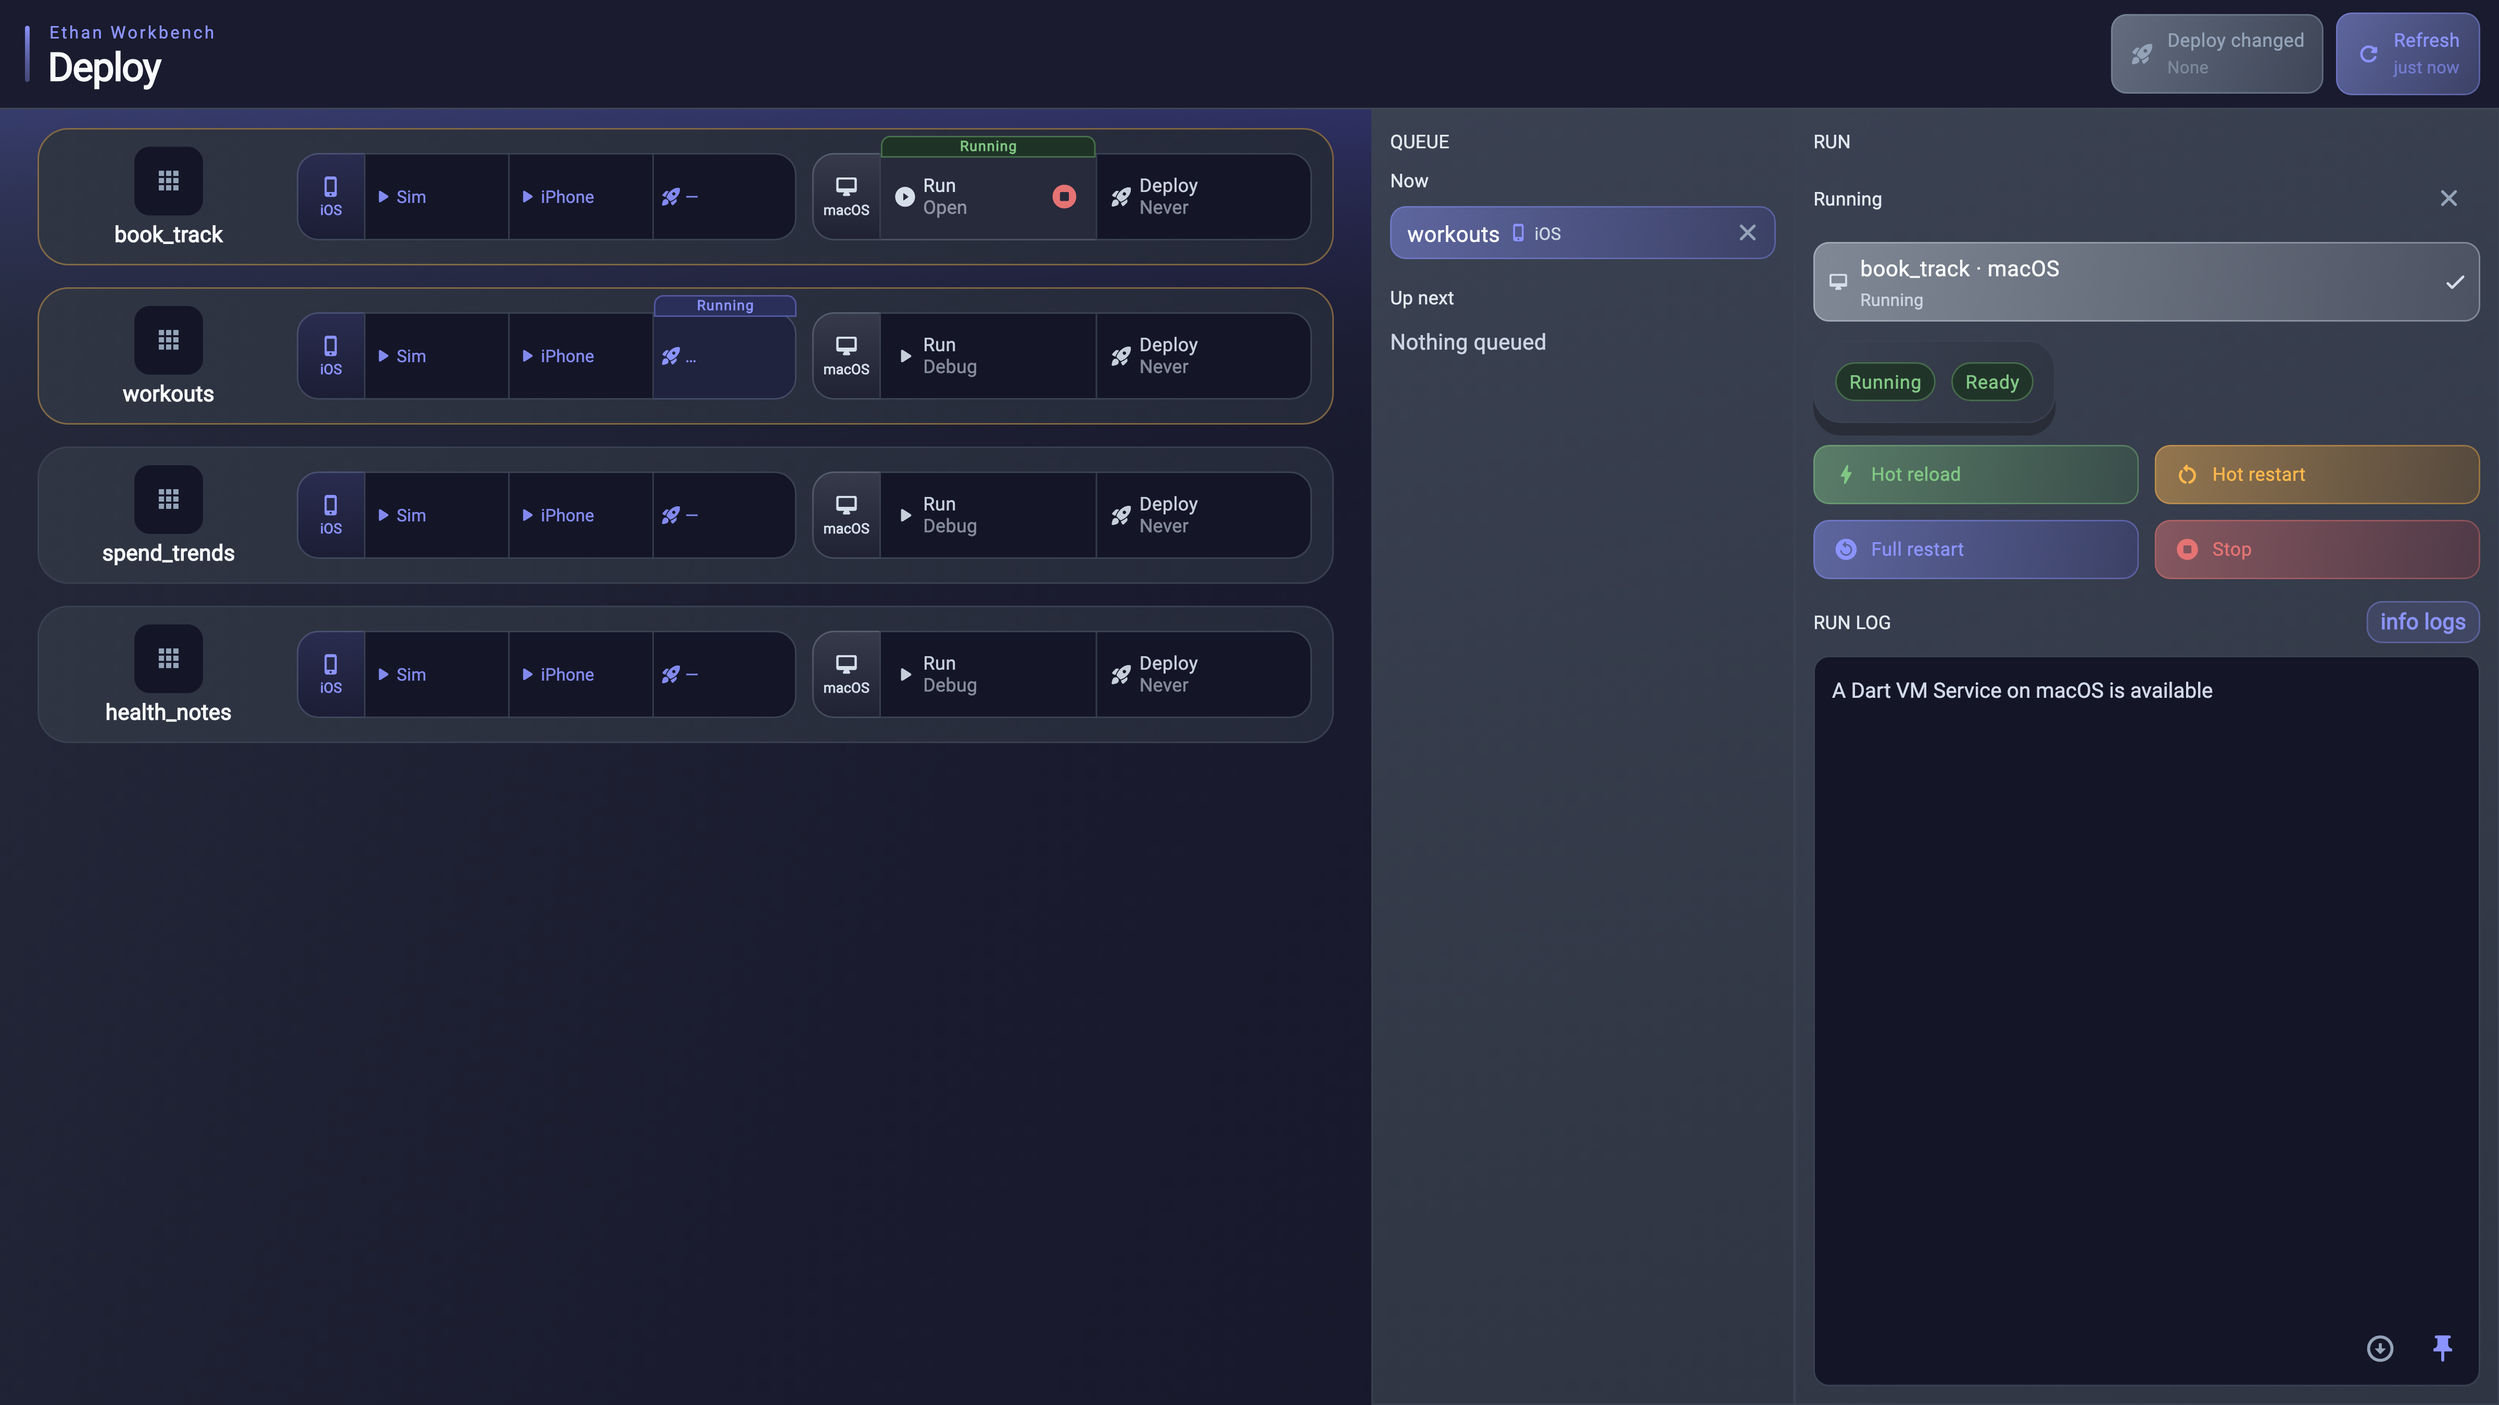
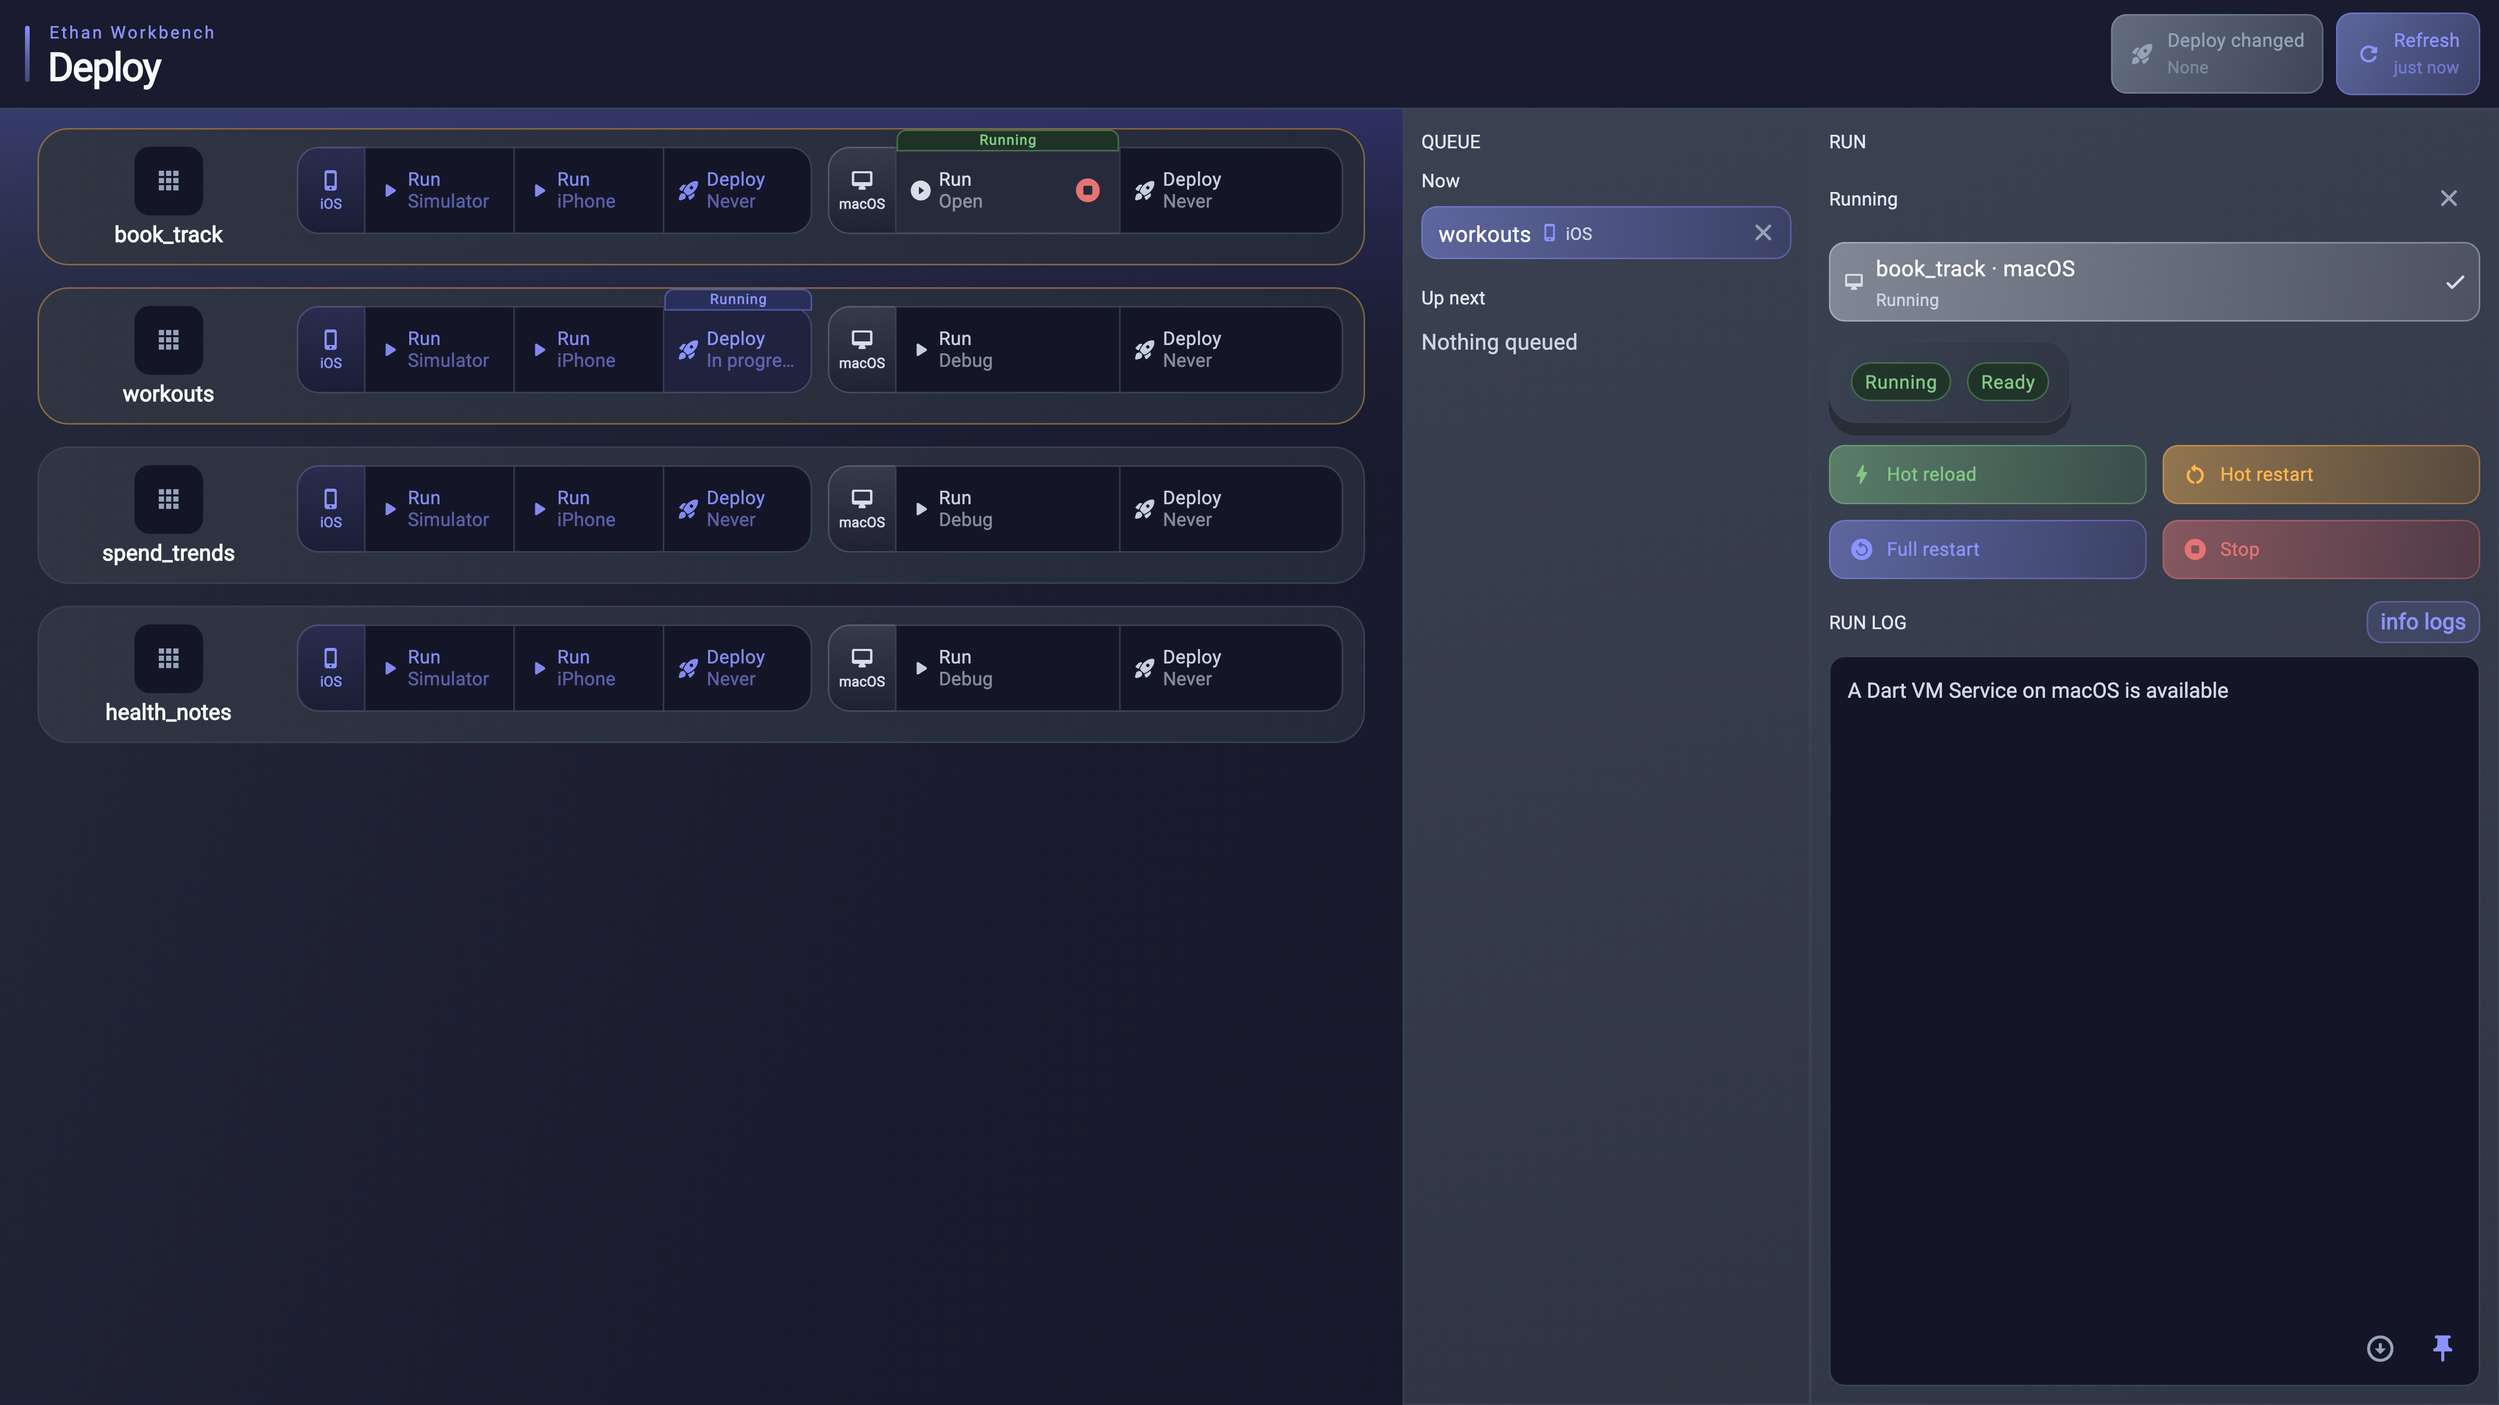
Stack a cluster's own cells instead of stacking platforms
Platforms stay side by side in a deploy row. A cluster too narrow for
its cells to keep their titles side by side now stacks Run and Deploy in
a column beside its rail, each at the cluster's full width. Clusters
widen to 330 so a three-cell iOS cluster keeps every title at full
width, and the row top-aligns clusters of different heights. Replaces
the earlier platforms-in-a-column layout.

diff --git a/lib/ui/widgets/e_action_cluster.dart b/lib/ui/widgets/e_action_cluster.dart
@@ -44,86 +44,132 @@ class const EActionCluster({
   final IconData? icon,
   final String? label,
 }) extends StatelessWidget {
-  /// Narrowest cluster of [cellCount] cells that still shows every cell's
-  /// title and subtitle and the rail's label; narrower, cells go icon-only.
-  static double labeledWidthFor(int cellCount) =>
-      _DenseFusedWellSizing.railLabeled +
-      cellCount * (_DenseFusedWellSizing.condensedMaxWidth + 1);
-
-  /// Room above a cluster for its hanging status ribbon.
-  static const statusRibbonClearance =
-      _DenseFusedWellSizing.statusEdgeHeight -
-      _DenseFusedWellSizing.statusEdgeOverlap;
-
+  /// Too narrow for every cell to keep its title side by side, the cells
+  /// stack in a column beside the rail, each at the cluster's full width.
   @override
   Widget build(BuildContext context) {
     if (cells.isEmpty) return const SizedBox.shrink();
-
-    final height =
-        _DenseFusedWellSizing.cellHeight + _DenseFusedWellSizing.cellPadV * 2;
-    const radius = ELayout.borderRadiusMd;
-
-    return SizedBox(
-      height: height,
-      child: LayoutBuilder(
-        builder: (context, constraints) {
-          final showRail = icon != null || (label != null && label!.isNotEmpty);
-          final showRailLabel =
-              showRail &&
-              label != null &&
-              label!.isNotEmpty &&
-              constraints.maxWidth >=
-                  _DenseFusedWellSizing.labeledRailMinClusterWidth;
-          final railWidth = !showRail
-              ? 0.0
-              : showRailLabel
-              ? _DenseFusedWellSizing.railLabeled
-              : _DenseFusedWellSizing.railIconOnly;
-
-          return Stack(
+    return LayoutBuilder(
+      builder: (context, constraints) {
+        final bool stacksCells =
+            cells.length > 1 && constraints.maxWidth < _labeledSideBySideWidth;
+        final double railWidth = _railWidthFor(constraints.maxWidth);
+        return SizedBox(
+          height: stacksCells
+              ? _cellRowHeight * cells.length + (cells.length - 1)
+              : _cellRowHeight,
+          child: Stack(
             clipBehavior: Clip.none,
             children: [
-              ESurface(
-                kind: ESurfaceKind.inset,
-                borderRadius: radius,
-                child: ClipRRect(
-                  borderRadius: radius,
-                  child: Row(
-                    crossAxisAlignment: CrossAxisAlignment.stretch,
-                    children: [
-                      if (showRail)
-                        _AccentRail(
-                          accent: accent,
-                          icon: icon,
-                          label: showRailLabel ? label : null,
-                          width: railWidth,
-                        ),
-                      for (var index = 0; index < cells.length; index++) ...[
-                        if (index > 0)
-                          VerticalDivider(
-                            width: 1,
-                            thickness: 1,
-                            color: EColors.border.withValues(alpha: 0.85),
-                          ),
-                        Expanded(
-                          child: _Cell(accent: accent, cell: cells[index]),
-                        ),
-                      ],
-                    ],
-                  ),
-                ),
+              _well(
+                railWidth: railWidth,
+                showRailLabel: railWidth == _DenseFusedWellSizing.railLabeled,
+                cellsArea: stacksCells
+                    ? _cellsStackedInColumn()
+                    : _cellsSideBySide(),
               ),
               ..._hangingEdges(
                 clusterWidth: constraints.maxWidth,
                 railWidth: railWidth,
               ),
             ],
-          );
-        },
+          ),
+        );
+      },
+    );
+  }
+
+  static const _cellRowHeight =
+      _DenseFusedWellSizing.cellHeight + _DenseFusedWellSizing.cellPadV * 2;
+
+  /// Narrowest width at which every cell keeps its title side by side.
+  double get _labeledSideBySideWidth =>
+      _DenseFusedWellSizing.railLabeled +
+      cells.length * (_DenseFusedWellSizing.condensedMaxWidth + 1);
+
+  bool get _hasRail => icon != null || (label != null && label!.isNotEmpty);
+
+  double _railWidthFor(double clusterWidth) {
+    if (!_hasRail) return 0;
+    final bool fitsLabel =
+        label != null &&
+        label!.isNotEmpty &&
+        clusterWidth >= _DenseFusedWellSizing.labeledRailMinClusterWidth;
+    return fitsLabel
+        ? _DenseFusedWellSizing.railLabeled
+        : _DenseFusedWellSizing.railIconOnly;
+  }
+
+  /// The inset surface: rail, then [cellsArea].
+  Widget _well({
+    required double railWidth,
+    required bool showRailLabel,
+    required Widget cellsArea,
+  }) {
+    const radius = ELayout.borderRadiusMd;
+    return ESurface(
+      kind: ESurfaceKind.inset,
+      borderRadius: radius,
+      child: ClipRRect(
+        borderRadius: radius,
+        child: Row(
+          crossAxisAlignment: CrossAxisAlignment.stretch,
+          children: [
+            if (_hasRail)
+              _AccentRail(
+                accent: accent,
+                icon: icon,
+                label: showRailLabel ? label : null,
+                width: railWidth,
+              ),
+            Expanded(child: cellsArea),
+          ],
+        ),
       ),
     );
   }
 
+  Widget _cellsSideBySide() {
+    return Row(
+      crossAxisAlignment: CrossAxisAlignment.stretch,
+      children: [
+        for (var index = 0; index < cells.length; index++) ...[
+          if (index > 0)
+            VerticalDivider(
+              width: 1,
+              thickness: 1,
+              color: EColors.border.withValues(alpha: 0.85),
+            ),
+          Expanded(
+            child: _Cell(accent: accent, cell: cells[index]),
+          ),
+        ],
+      ],
+    );
+  }
+
+  Widget _cellsStackedInColumn() {
+    return Column(
+      crossAxisAlignment: CrossAxisAlignment.stretch,
+      children: [
+        for (var index = 0; index < cells.length; index++) ...[
+          if (index > 0)
+            Divider(
+              height: 1,
+              thickness: 1,
+              color: EColors.border.withValues(alpha: 0.85),
+            ),
+          SizedBox(
+            height: _cellRowHeight,
+            child: _Cell(accent: accent, cell: cells[index]),
+          ),
+        ],
+      ],
+    );
+  }
+
+  /// Status ribbons hang off the top edge in cell order either way, so a
+  /// stacked well is no taller for them.
   List<Widget> _hangingEdges({
     required double clusterWidth,
     required double railWidth,

diff --git a/lib/projects/project_workbench_row.dart b/lib/projects/project_workbench_row.dart
@@ -1,7 +1,6 @@
 import 'dart:math' as math;
 
 import 'package:ethan_ui/ethan_ui.dart';
-import 'package:ethan_utils/ethan_utils.dart';
 import 'package:flutter/material.dart';
 
 import '../deploy/deploy_job.dart';
@@ -12,7 +11,6 @@ import '../commit/uncommitted_change_counts.dart';
 import 'workbench_project.dart';
 import 'workbench_row_identity.dart';
 import 'workbench_row_layout.dart';
-import '../ui/widgets/e_action_cluster.dart';
 import 'workbench_row_platform_cluster.dart';
 
 /// One project in the workbench list: identity + Line age + commit + Run/Deploy.
@@ -88,55 +86,28 @@ class const ProjectWorkbenchRow({
     );
   }
 
-  /// Platform clusters sit side by side while each keeps its labels; once
-  /// they would go icon-only, they stack in one column and each takes the
-  /// column's full width.
   Widget _actionRow(double maxWidth, {required bool compact}) {
     final clusterGap = compact
         ? WorkbenchRowLayout.compactClusterGap
         : WorkbenchRowLayout.clusterGap;
-    WorkbenchRowSlotWidths widthsFor(int clusterSlots) =>
-        WorkbenchRowSlotWidths.allocate(
-          maxWidth: maxWidth,
-          platformCount: clusterSlots,
-          compact: compact,
-          showLineAge: showLineAge,
-          showCommit: showCommit,
-        );
-    final WorkbenchRowSlotWidths sideBySide = widthsFor(platforms.length);
-    final bool stacksClusters =
-        platforms.length > 1 && sideBySide.cluster < _labeledClusterWidth;
-    final WorkbenchRowSlotWidths widths = stacksClusters
-        ? widthsFor(1)
-        : sideBySide;
+    final widths = WorkbenchRowSlotWidths.allocate(
+      maxWidth: maxWidth,
+      platformCount: platforms.length,
+      compact: compact,
+      showLineAge: showLineAge,
+      showCommit: showCommit,
+    );
+    // Top-aligned: a cluster that stacks its cells is taller than one that
+    // does not, and their tops should line up.
     return Row(
-      crossAxisAlignment: CrossAxisAlignment.center,
-      children: _actionRowChildren(
-        widths,
-        clusterGap: clusterGap,
-        stacksClusters: stacksClusters,
-      ),
+      crossAxisAlignment: CrossAxisAlignment.start,
+      children: _actionRowChildren(widths, clusterGap: clusterGap),
     );
   }
-
-  /// Width the widest platform cluster needs to keep its labels, at most a
-  /// full cluster's width (a cluster never grows past that).
-  double get _labeledClusterWidth => platforms
-      .map(
-        (platform) => EActionCluster.labeledWidthFor(
-          (canRunLocally
-                  ? WorkbenchRowPlatformCluster.runDevicesFor(platform).length
-                  : 0) +
-              1,
-        ),
-      )
-      .fold(0.0, math.max)
-      .clamp(0.0, WorkbenchRowLayout.clusterWidth);
 
   List<Widget> _actionRowChildren(
     WorkbenchRowSlotWidths widths, {
     required double clusterGap,
-    required bool stacksClusters,
   }) {
     final children = <Widget>[];
     var slotIndex = 0;
@@ -167,36 +138,24 @@ class const ProjectWorkbenchRow({
         onCommit: onCommit,
       ),
     );
-    if (stacksClusters) {
+    for (final platform in platforms) {
       addSlot(
         widths.cluster,
-        Column(
-          crossAxisAlignment: CrossAxisAlignment.stretch,
-          spacing: clusterGap + EActionCluster.statusRibbonClearance,
-          children: platforms.mapL(_platformCluster),
+        WorkbenchRowPlatformCluster(
+          project: project,
+          platform: platform,
+          runStateFor: runStateFor,
+          canRunLocally: canRunLocally,
+          ongoingDeploy: ongoingDeploy,
+          waitingDeploys: waitingDeploys,
+          onDeploy: onDeploy,
+          onRun: onRun,
+          onStopRun: onStopRun,
+          onOpenOngoingDeploy: onOpenOngoingDeploy,
         ),
       );
-      return children;
-    }
-    for (final platform in platforms) {
-      addSlot(widths.cluster, _platformCluster(platform));
     }
     return children;
-  }
-
-  Widget _platformCluster(DeployPlatform platform) {
-    return WorkbenchRowPlatformCluster(
-      project: project,
-      platform: platform,
-      runStateFor: runStateFor,
-      canRunLocally: canRunLocally,
-      ongoingDeploy: ongoingDeploy,
-      waitingDeploys: waitingDeploys,
-      onDeploy: onDeploy,
-      onRun: onRun,
-      onStopRun: onStopRun,
-      onOpenOngoingDeploy: onOpenOngoingDeploy,
-    );
   }
 
   LocalRunStatus? _activeRunStatus(FlutterRunDevice device) {

diff --git a/test/project_workbench_row_test.dart b/test/project_workbench_row_test.dart
@@ -56,12 +56,19 @@ void main() {
     expect(origins[1].dx, greaterThan(origins[0].dx));
   });
 
-  testWidgets('platform clusters stack once side by side would go icon-only', (
+  testWidgets('narrow platforms stay side by side and stack their own cells', (
     tester,
   ) async {
     final List<Offset> origins = await clusterOriginsAt(tester, 620);
     expect(origins, hasLength(2));
-    expect(origins[0].dx, origins[1].dx);
-    expect(origins[1].dy, greaterThan(origins[0].dy));
+    expect(origins[0].dy, origins[1].dy);
+    final Finder macosCluster = find.byType(EActionCluster).first;
+    final Offset runOrigin = tester.getTopLeft(
+      find.descendant(of: macosCluster, matching: find.text('Run')),
+    );
+    final Offset deployOrigin = tester.getTopLeft(
+      find.descendant(of: macosCluster, matching: find.text('Deploy')),
+    );
+    expect(deployOrigin.dy, greaterThan(runOrigin.dy));
   });
 }

diff --git a/lib/projects/workbench_row_layout.dart b/lib/projects/workbench_row_layout.dart
@@ -4,7 +4,9 @@ import 'package:ethan_ui/theme/e_layout.dart';
 
 /// Preferred maxima for identity, then Line age + commit, then clusters.
 abstract final class WorkbenchRowLayout() {
-  static const clusterWidth = 320.0;
+  /// Wide enough for a three-cell cluster (iOS: phone, simulator, deploy)
+  /// to keep every cell's title side by side.
+  static const clusterWidth = 330.0;
   static const clusterGap = 10.0;
   static const compactClusterGap = 6.0;
 
